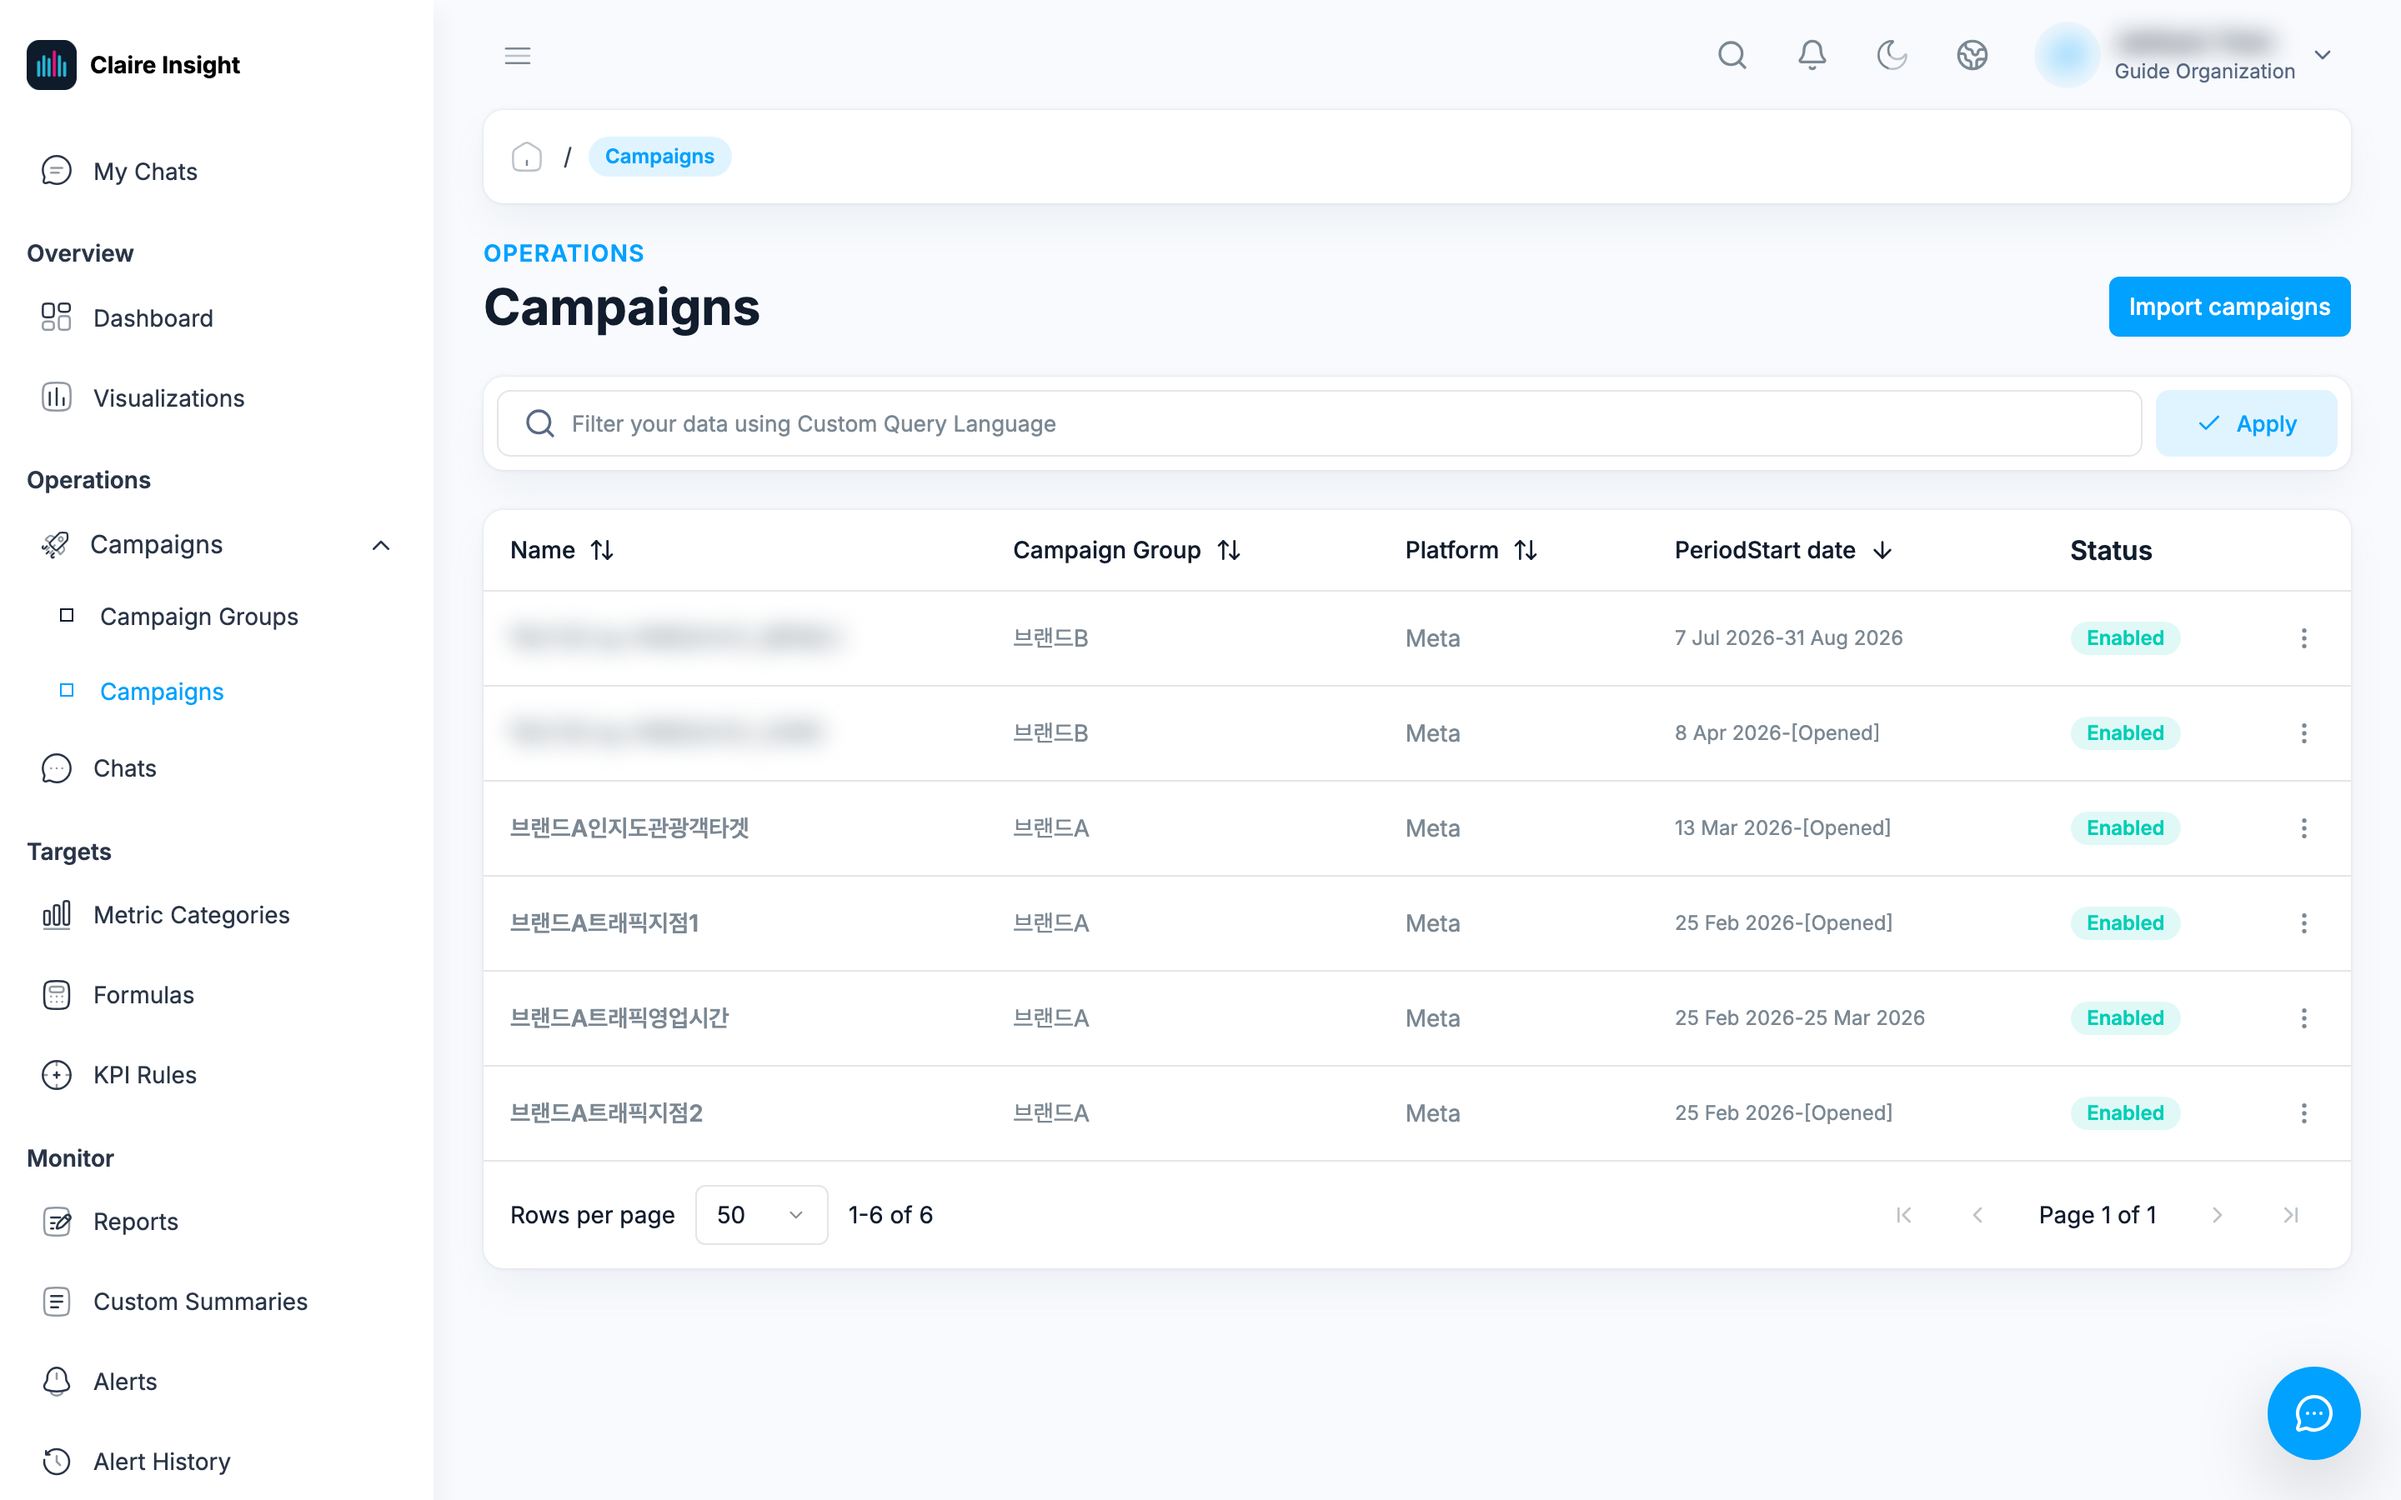
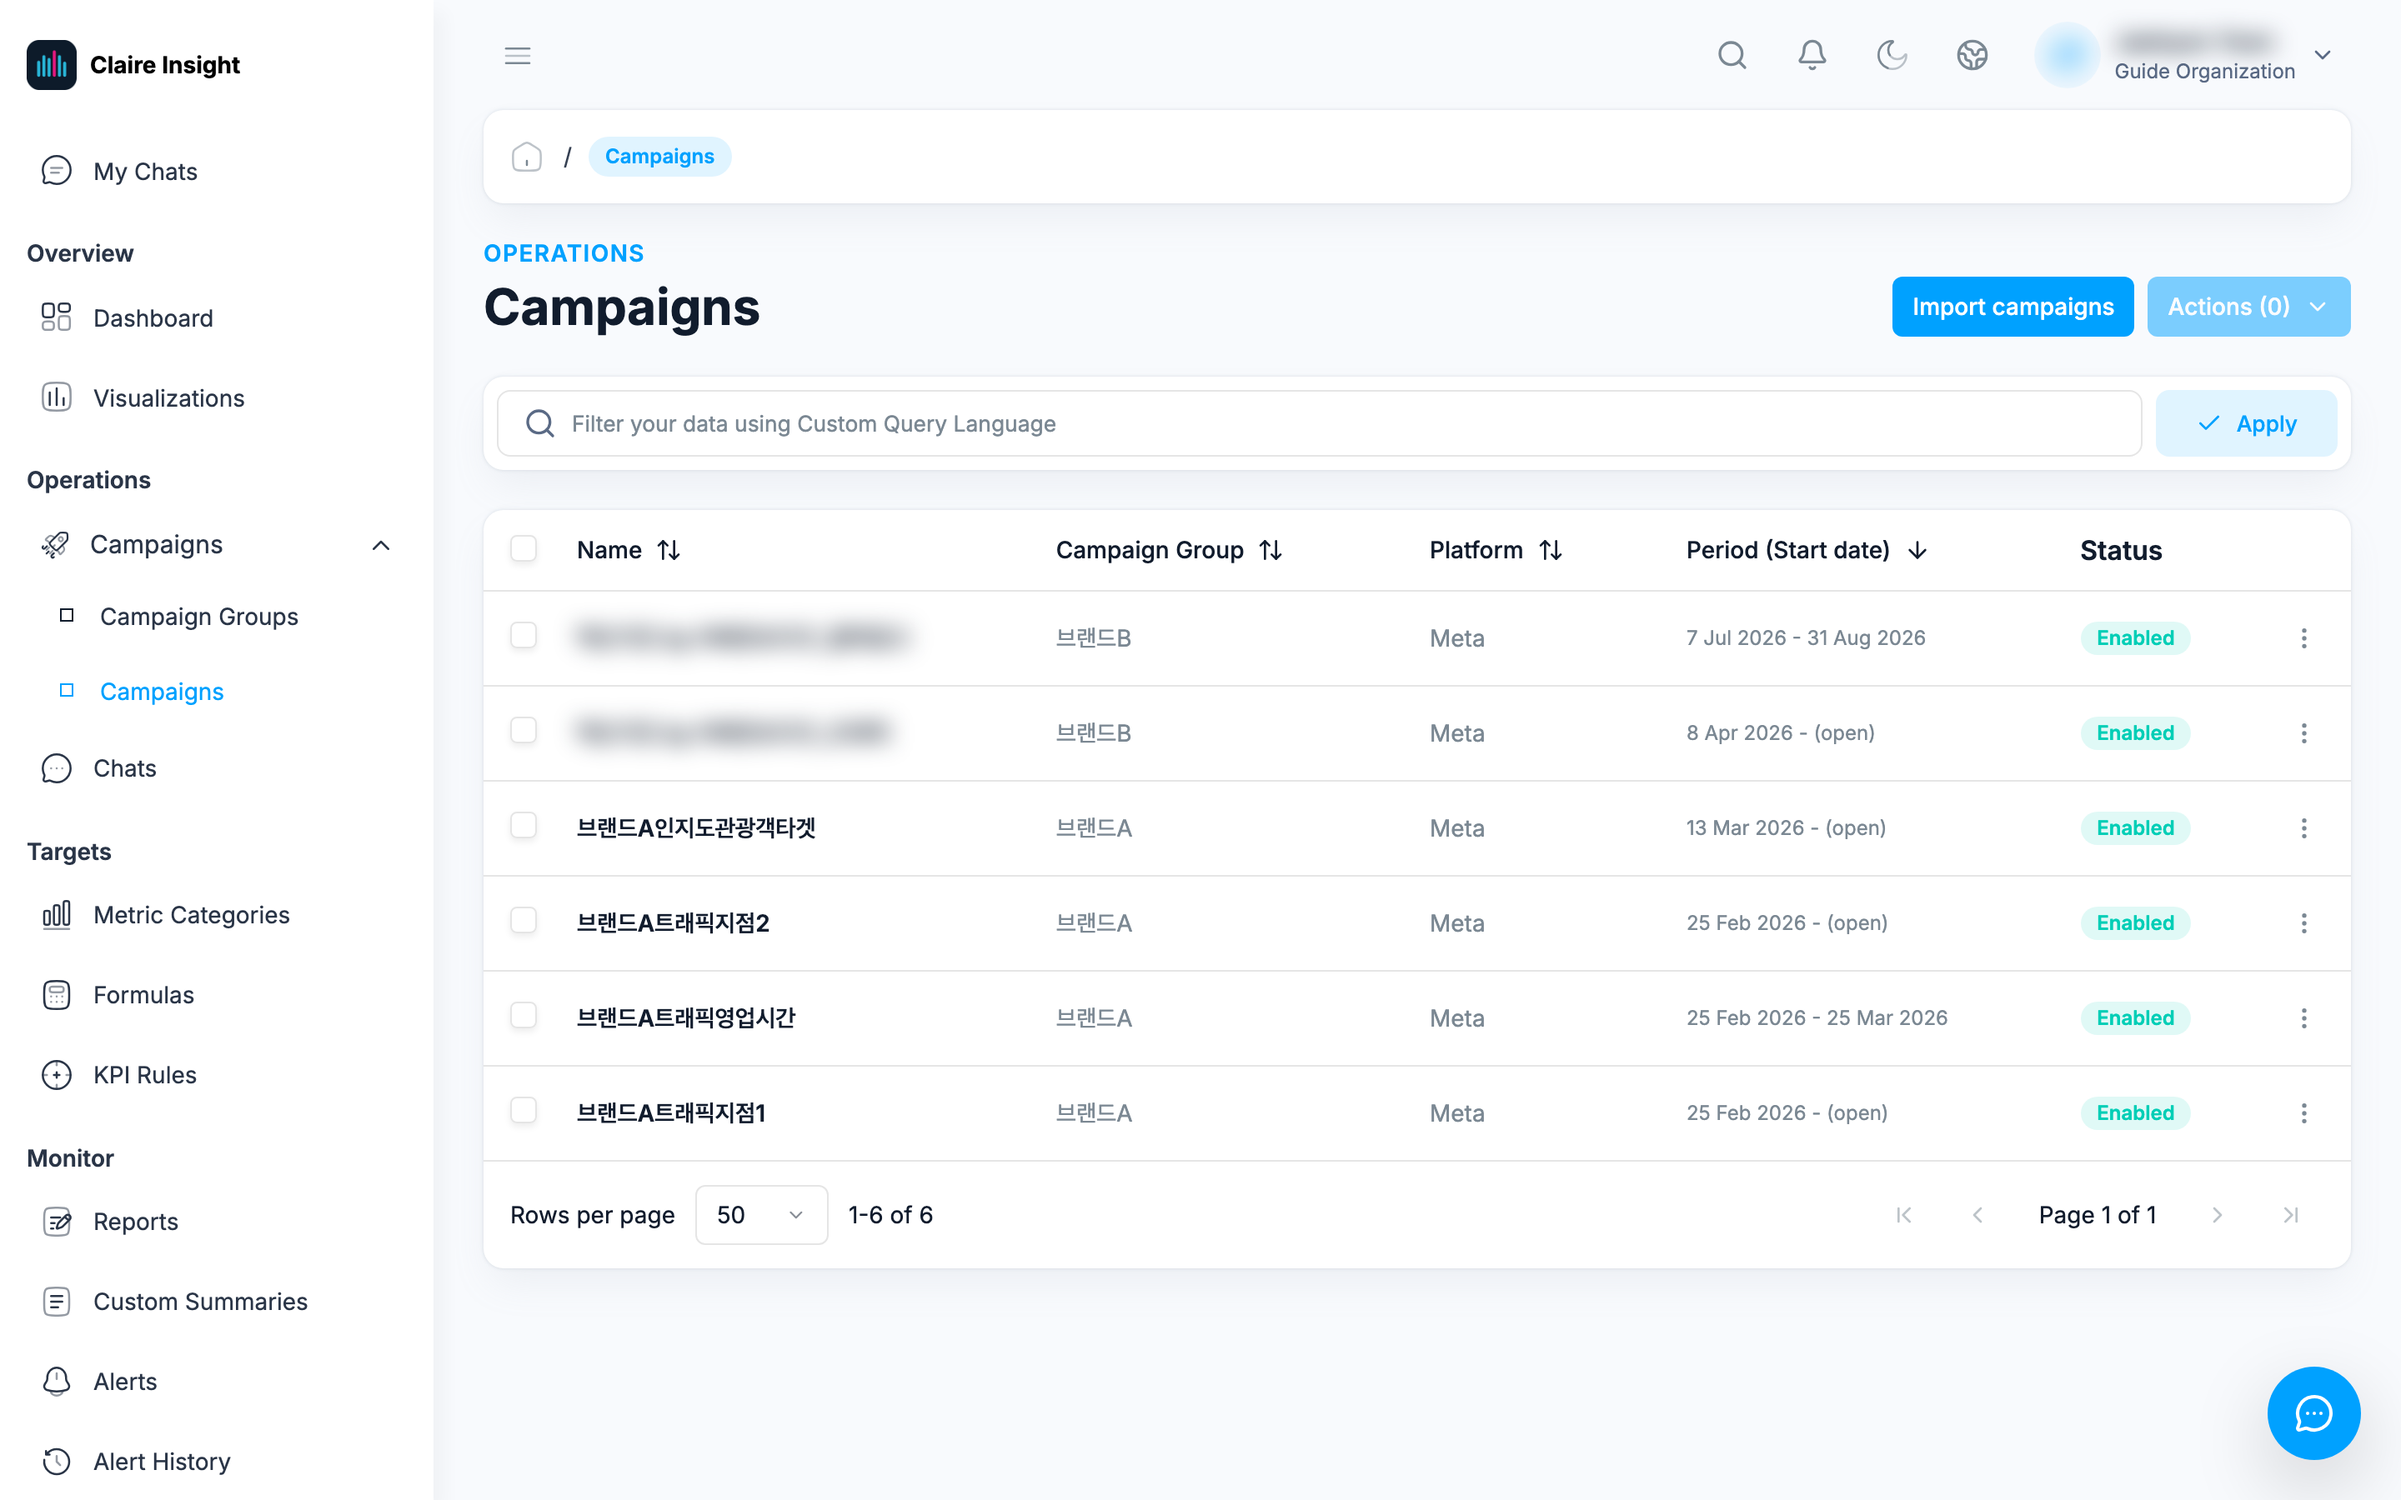
운영 반영 점검: Payment methods 블라인드, 버튼명 정정, 캠페인 목록·시각화 목록 재촬영

diff --git a/docs-claire/settings.md b/docs-claire/settings.md
@@ -12,12 +12,16 @@ title: 조직 설정과 알림
 
 ![Organization Settings](/img/claire/organization-settings.png)
 
-탭이 세 개입니다.
+탭이 두 개입니다.
 
 - **My Organization** — 조직 이름·설명
 - **Chat Config** — Claire 대화 문맥의 공유 범위 (→ [대화 문맥 공유 범위](/claire/chat#대화-문맥-공유-범위))
-- **Payment methods** — 구독 결제에 쓸 카드 (아래 참고)
 
+{/* 임시 블라인드 — Payment methods 탭 (운영 미배포)
+- **Payment methods** — 구독 결제에 쓸 카드 (아래 참고)
+*/}
+
+{/* 임시 블라인드 — Payment methods 섹션 (운영 미배포)
 ### Payment methods — 결제 수단
 
 구독 결제에 사용할 카드를 등록해 두는 곳입니다. **카드를 등록해도 그 자리에서
@@ -40,6 +44,7 @@ title: 조직 설정과 알림
 "Card registration could not be completed."가 표시됩니다. 다른 계정으로
 로그인한 뒤 등록을 이어가면 세션이 맞지 않아 처음부터 다시 시작해야 합니다.
 :::
+*/}
 
 ## Platform Integrations — 매체 연동
 

diff --git a/docs-claire/custom-summaries.md b/docs-claire/custom-summaries.md
@@ -14,13 +14,13 @@ title: 정기 요약 보내기
 
 ## 요약 만들기
 
-[New]를 누르면 네 단계로 나뉜 입력 화면이 열립니다.
+[New Custom Summary]를 누르면 네 단계로 나뉜 입력 화면이 열립니다.
 
 ![새 요약 만들기](/img/claire/custom-summary-new.png)
 
-1. **Custom Summary target** — 캠페인 그룹 전체(Entire campaign group) 또는
-   캠페인 하나를 고릅니다. 그룹에 속하지 않은 캠페인은 Campaign group을
-   "No campaign group"으로 두고 캠페인만 고릅니다.
+1. **Custom Summary target** — 캠페인 그룹 전체 또는 캠페인 하나를
+   고릅니다. 그룹에 속하지 않은 캠페인은 Campaign group을 "No campaign group"으로
+   두고 캠페인만 고릅니다.
 2. **Summary document** — 발송할 본문입니다 (아래 참고, 최대 10,000자).
 3. **Schedule** — 요약 이름, 주기(Daily · Weekly · Monthly), 요일 또는 일자,
    발송 시각, 시간대(기본 Asia/Seoul).

diff --git a/docs-claire/faq.md b/docs-claire/faq.md
@@ -24,12 +24,14 @@ sidebar_position: 12
 campaigns**를 쓰면 같은 기간을 한 번에 요청할 수 있습니다. 고른 캠페인이 모두
 활성 상태이고 매체에 연결돼 있어야 이 메뉴가 눌립니다. → [여러 캠페인 한꺼번에 다시 수집하기](/claire/performance#여러-캠페인-한꺼번에-다시-수집하기)
 
+{/* 임시 블라인드 — Payment methods FAQ (운영 미배포)
 ### 카드를 등록했는데 결제가 됐나요
 
 아닙니다. Organization Settings의 **Payment methods**는 구독 결제에 쓸 카드를
 등록해 두는 곳이고, 등록만으로는 결제가 일어나지 않습니다. 카드 번호는
 토스페이먼츠 화면에서 입력하고, Claire 화면에는 카드사와 마스킹된 번호만
 표시됩니다. 이후 자동 결제에 쓰는 빌링 키만 암호화해 보관합니다.
+*/}
 
 ### 캠페인(또는 알림)이 삭제가 안 돼요
 

diff --git a/docs-claire/targets.md b/docs-claire/targets.md
@@ -25,7 +25,7 @@ title: 지표와 KPI 규칙
 ## Formulas — 파생 공식
 
 기본 지표로 계산하는 공식입니다. CTR, CVR, CPC, CPM, CPV, VTR, ROAS,
-Margin, Margin rate가 기본으로 제공되고, [New]를 눌러 조직만의 공식을
+Margin, Margin rate가 기본으로 제공되고, [New formula]를 눌러 조직만의 공식을
 추가할 수도 있습니다. 공식에는 사칙연산과 `round` · `round_up` · `round_down`
 (자릿수 지정 반올림·올림·내림) 함수를 쓸 수 있습니다.
 

diff --git a/docs-claire/dashboards.md b/docs-claire/dashboards.md
@@ -205,6 +205,8 @@ campaign.period.start >= "2026-09-01T00:00:00+09:00"
 **Overview → Visualizations** 목록은 이름 · **Available in** · **Type** ·
 **Last updated** 열로 이뤄지며, 각 열 머리글을 눌러 정렬할 수 있습니다.
 
+![시각화 목록](/img/claire/visualizations.png)
+
 **Available in**은 이 시각화를 어디에 올릴 수 있는지를 나타냅니다.
 
 - **All dashboards** — 아무 대시보드에나 [Add widget]으로 올릴 수 있습니다.

diff --git a/docs-claire/campaigns.md b/docs-claire/campaigns.md
@@ -10,7 +10,7 @@ Claire의 모든 기능은 캠페인이 연결돼 있어야 동작합니다. 캠
 
 ## 캠페인 그룹 만들기
 
-**Operations → Campaign Groups**에서 [New]를 눌러 광고주나 브랜드 단위
+**Operations → Campaign Groups**에서 [Create campaign group]을 눌러 광고주나 브랜드 단위
 그룹을 만듭니다.
 
 ![캠페인 그룹 목록](/img/claire/campaign-groups.png)

diff --git a/docs-claire/reports.md b/docs-claire/reports.md
@@ -13,7 +13,7 @@ title: 리포트 내려받기
 
 ## 리포트 정의 만들기
 
-[New]를 누르면 6단계 안내 화면이 열립니다.
+[New report]를 누르면 6단계 안내 화면이 열립니다.
 
 1. **Definition** — 이름, 집계 단위(Breakdown: Cumulative · Monthly · Weekly ·
    Daily · Hourly), 열로 쓸 차원(Dimensions: 캠페인 그룹 이름/코드, 캠페인
